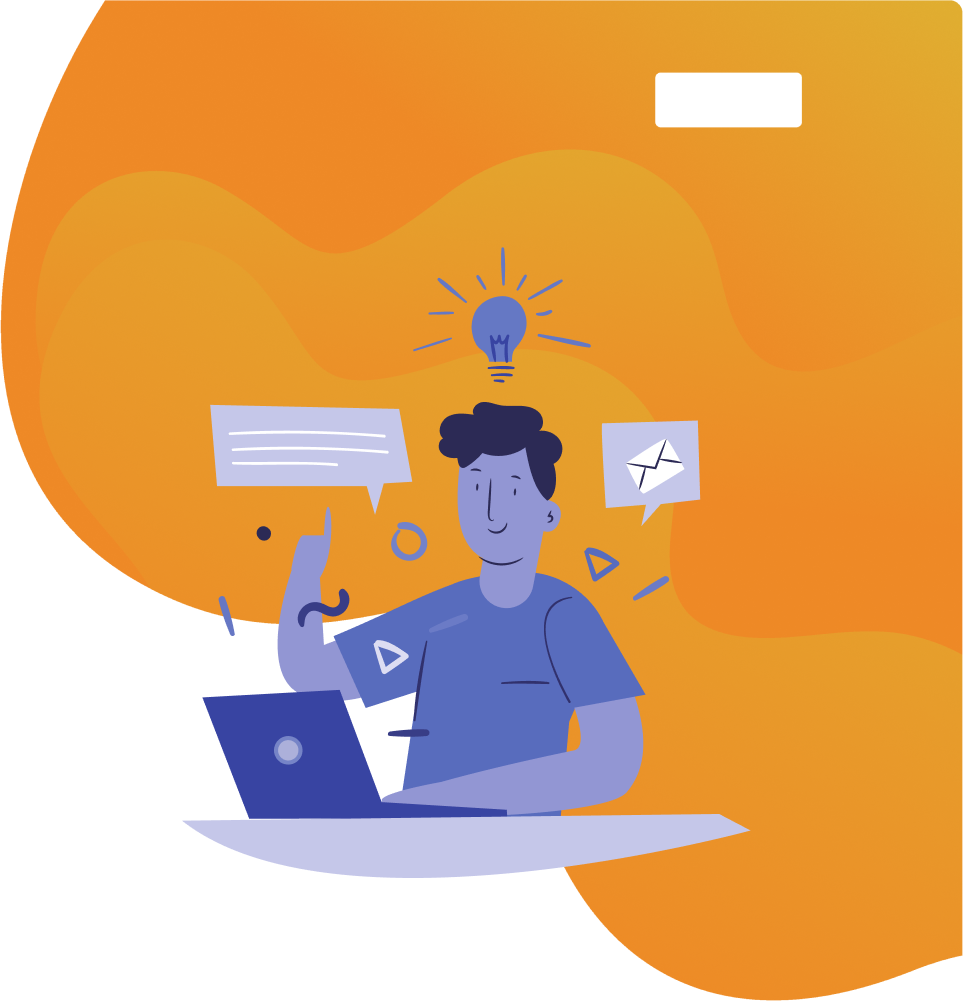
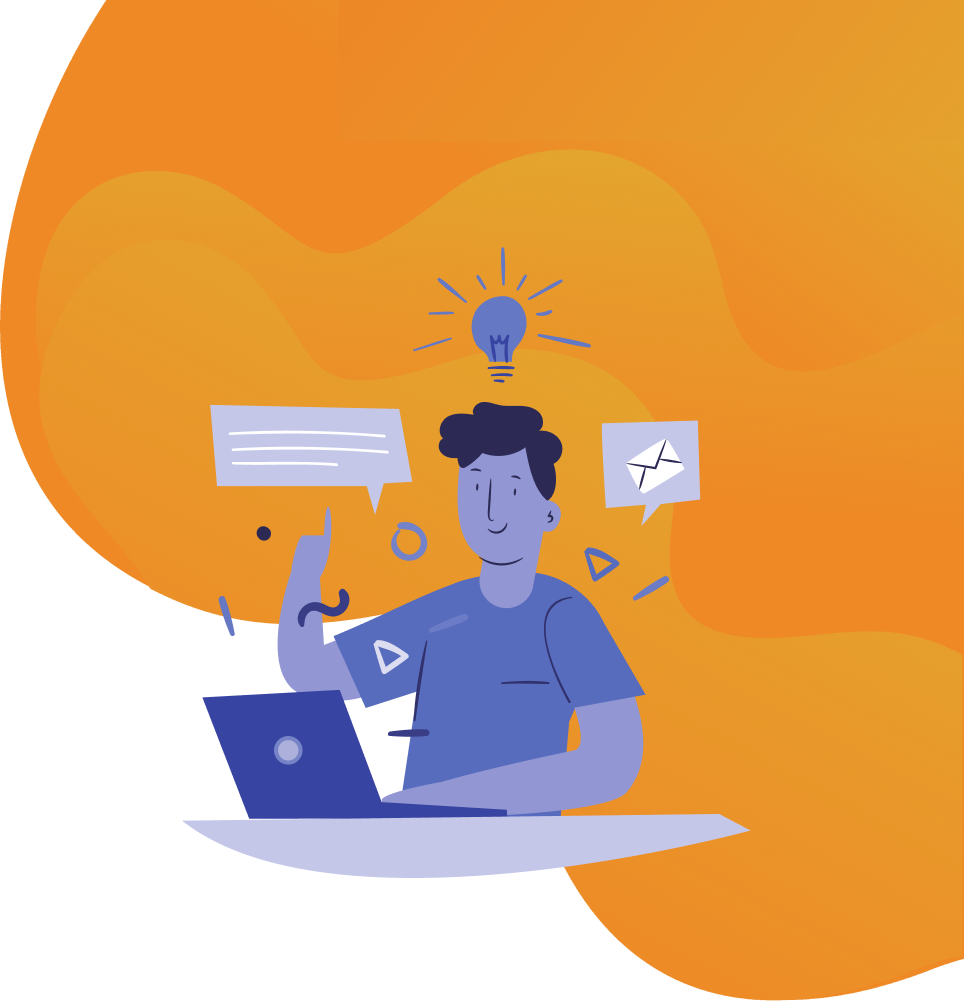
responsive mobile

diff --git a/scss/main.scss b/scss/main.scss
@@ -7,15 +7,139 @@ $secColor: #2C2A55;
 $thrdColor: #9296D3;
 $textColor: #6578C4;
 
+//Mixin
+@mixin button {
+    display: inline-block;
+    color: white;
+    background-color: $primaryColor;
+    border-radius: 2em;
+    padding: 0.5em 2em;
+    text-decoration: none;
+}
+
 
 //style
 body {
     font-family: 'Ubuntu', sans-serif;
-    background-image: url(../img/background.png);
-    background-position: top right;
-    background-repeat: no-repeat;
-    background-size: 60vmax;
-    
+    &::before {
+        content: '';
+        background-image: url(../img/background.png);
+        background-position: top right;
+        background-repeat: no-repeat;
+        background-size: 60vmax;
+        position: absolute;
+        top: 0;
+        left: 0;
+        bottom: 0;
+        right: 0;
+        @media screen and (max-width: 992px) {
+            opacity: 0.6;
+            
+        }
+    }
 }
 
 //NAVBAR
+.custom-nav {
+    .navbar-brand {
+        img {
+            width: 45px;
+            height: 45px;
+            margin-top: -7px;
+        }
+        span {
+            color: $secColor;
+            font-weight: 700;
+            font-size: 1.4rem;
+            margin-left: 0.4em;
+        }
+    }
+
+    #navbarNav {
+        .navbar-nav {
+            .nav-item {
+                .nav-link{
+                    color: $secColor;
+                    font-weight: 500;
+                    text-transform: uppercase;
+                    margin-left: 2.4em;
+                    transition: .3s color ease;
+
+                    &:hover {
+                        color: lighten(white, 50%);
+                    }
+                }
+                .contact-button {
+                    background-color: white;
+                    border-radius: 2em;
+                    border: 0;
+                    padding-left: 1.5em;
+                    padding-right: 1.5em;
+
+                    &:hover {
+                        color: darken($textColor, 10%);
+                    }
+                }
+            }
+        }
+    }
+    @media screen and (max-width: 992px) {
+        margin-top: -1em;
+    }
+}
+
+//custom section
+.custom-section {
+    margin-top: 10em;
+    h2 {
+        font-weight: 700;
+        font-size: 4rem;
+        color: $secColor;
+        white-space: nowrap;
+        line-height: 1;
+    }
+
+    h3 {
+        font-weight: 400;
+        font-size: 1.5rem;
+        color: $textColor;
+        white-space: nowrap;
+        line-height: 1;
+    }
+    p {
+        font-size: 1rem;
+        color: #212529;
+        margin-top: 2em;
+    }
+
+    a{
+        margin-top: 2.2em;
+       @include button; 
+       border: 1px solid transparent;
+       transition: 0.5s ease;
+       font-weight: 500;
+
+       &:hover {
+           color: $primaryColor;
+           border: 1px solid $primaryColor;
+           background-color: transparent;
+       }
+    }
+
+    @media screen and (max-width: 992px) {
+        margin-top: 3em;
+        text-align: center;
+        h2, h3, p {
+            text-shadow: 1px 1px 1px rgba(#212529, 0.3);
+        }
+        h3 {
+          color: lighten(#212529, 10%);
+        }
+    }
+
+    @media screen and (max-width: 400px) {
+        h2{
+            font-size: 3rem;
+        }
+    }
+}

diff --git a/scss/main.css b/scss/main.css
@@ -2,9 +2,133 @@
 @import url("https://fonts.googleapis.com/css2?family=Ubuntu:wght@300;400;500;700&display=swap");
 body {
   font-family: 'Ubuntu', sans-serif;
+}
+
+body::before {
+  content: '';
   background-image: url(../img/background.png);
   background-position: top right;
   background-repeat: no-repeat;
   background-size: 60vmax;
+  position: absolute;
+  top: 0;
+  left: 0;
+  bottom: 0;
+  right: 0;
+}
+
+@media screen and (max-width: 992px) {
+  body::before {
+    opacity: 0.6;
+  }
+}
+
+.custom-nav .navbar-brand img {
+  width: 45px;
+  height: 45px;
+  margin-top: -7px;
+}
+
+.custom-nav .navbar-brand span {
+  color: #2C2A55;
+  font-weight: 700;
+  font-size: 1.4rem;
+  margin-left: 0.4em;
+}
+
+.custom-nav #navbarNav .navbar-nav .nav-item .nav-link {
+  color: #2C2A55;
+  font-weight: 500;
+  text-transform: uppercase;
+  margin-left: 2.4em;
+  -webkit-transition: .3s color ease;
+  transition: .3s color ease;
+}
+
+.custom-nav #navbarNav .navbar-nav .nav-item .nav-link:hover {
+  color: white;
+}
+
+.custom-nav #navbarNav .navbar-nav .nav-item .contact-button {
+  background-color: white;
+  border-radius: 2em;
+  border: 0;
+  padding-left: 1.5em;
+  padding-right: 1.5em;
+}
+
+.custom-nav #navbarNav .navbar-nav .nav-item .contact-button:hover {
+  color: #445ab2;
+}
+
+@media screen and (max-width: 992px) {
+  .custom-nav {
+    margin-top: -1em;
+  }
+}
+
+.custom-section {
+  margin-top: 10em;
+}
+
+.custom-section h2 {
+  font-weight: 700;
+  font-size: 4rem;
+  color: #2C2A55;
+  white-space: nowrap;
+  line-height: 1;
+}
+
+.custom-section h3 {
+  font-weight: 400;
+  font-size: 1.5rem;
+  color: #6578C4;
+  white-space: nowrap;
+  line-height: 1;
+}
+
+.custom-section p {
+  font-size: 1rem;
+  color: #212529;
+  margin-top: 2em;
+}
+
+.custom-section a {
+  margin-top: 2.2em;
+  display: inline-block;
+  color: white;
+  background-color: #EE8926;
+  border-radius: 2em;
+  padding: 0.5em 2em;
+  text-decoration: none;
+  border: 1px solid transparent;
+  -webkit-transition: 0.5s ease;
+  transition: 0.5s ease;
+  font-weight: 500;
+}
+
+.custom-section a:hover {
+  color: #EE8926;
+  border: 1px solid #EE8926;
+  background-color: transparent;
+}
+
+@media screen and (max-width: 992px) {
+  .custom-section {
+    margin-top: 3em;
+    text-align: center;
+  }
+  .custom-section h2, .custom-section h3, .custom-section p {
+    text-shadow: 1px 1px 1px rgba(33, 37, 41, 0.3);
+  }
+  .custom-section h3 {
+    color: #383f45;
+  }
+}
+
+@media screen and (max-width: 400px) {
+  .custom-section h2 {
+    font-size: 3rem;
+  }
 }
 /*# sourceMappingURL=main.css.map */

diff --git a/index.html b/index.html
@@ -7,36 +7,52 @@
 
     <!-- Bootstrap CSS -->
     <link rel="stylesheet" href="https://cdn.jsdelivr.net/npm/bootstrap@4.5.3/dist/css/bootstrap.min.css" integrity="sha384-TX8t27EcRE3e/ihU7zmQxVncDAy5uIKz4rEkgIXeMed4M0jlfIDPvg6uqKI2xXr2" crossorigin="anonymous">
-    <!-- M-y CSS -->
+    <!-- My CSS -->
     <link rel="stylesheet" href="scss/main.css">
     <title>Lab Komputasi MIPA</title>
   </head>
 
   <body>
-    <nav class="navbar navbar-expand-lg navbar-light bg-light">
+
+    <div class="container my-5">
+    <nav class="navbar navbar-expand-lg navbar-light bg-light custom-nav bg-transparent" >
         <a class="navbar-brand" href="#">
-            
+          <img src="img/lab.png" alt="logo lab">
+          <span>Lab Komputasi</span>
         </a>
         <button class="navbar-toggler" type="button" data-toggle="collapse" data-target="#navbarNav" aria-controls="navbarNav" aria-expanded="false" aria-label="Toggle navigation">
           <span class="navbar-toggler-icon"></span>
         </button>
-        <div class="collapse navbar-collapse" id="navbarNav">
+        <div class="collapse navbar-collapse justify-content-end" id="navbarNav">
           <ul class="navbar-nav">
             <li class="nav-item active">
-              <a class="nav-link" href="#">Home <span class="sr-only">(current)</span></a>
+              <a class="nav-link" href="#">Home</a>
             </li>
             <li class="nav-item">
-              <a class="nav-link" href="#">Features</a>
+              <a class="nav-link" href="#">About</a>
             </li>
             <li class="nav-item">
-              <a class="nav-link" href="#">Pricing</a>
+              <a class="nav-link" href="#">News</a>
             </li>
             <li class="nav-item">
-              <a class="nav-link disabled" href="#" tabindex="-1" aria-disabled="true">Disabled</a>
+              <a class="nav-link btn-primary contact-button" href="#">Contact</a>
             </li>
           </ul>
         </div>
       </nav>
+    </div>
+
+    <div class="container">
+      <div class="row custom-section">
+        <div class="col-12 col-lg-4">
+          <h2>Hello World!</h2>
+          <h3>Selamat datang..</h3>
+          <h3>Di Lab Komputasi MIPA</h3>
+          <p>Lorem ipsum dolor sit amet consectetur adipisicing elit. Iusto ipsum facilis cupiditate? Porro, aut. Quis facere doloremque voluptatem excepturi dignissimos nesciunt illum reiciendis incidunt veritatis.</p>
+          <a href="#">Explore More</a>
+        </div>
+      </div>
+    </div>
 
     <!-- Optional JavaScript; choose one of the two! -->
 
